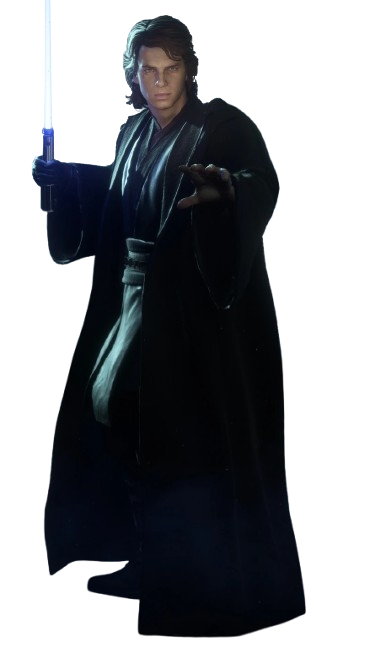
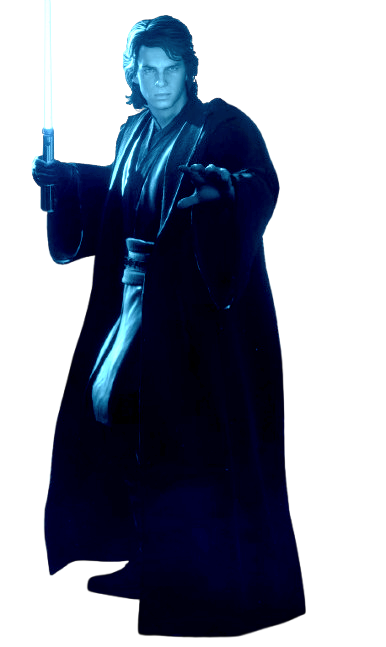
Character change button configuration

diff --git a/src/main/java/com/example/navalbattleminiproject3/controller/WelcomeController.java b/src/main/java/com/example/navalbattleminiproject3/controller/WelcomeController.java
@@ -4,8 +4,33 @@ import com.example.navalbattleminiproject3.view.GameView;
 import com.example.navalbattleminiproject3.view.WelcomeView;
 import javafx.event.ActionEvent;
 import javafx.fxml.FXML;
+import javafx.scene.control.Button;
+import javafx.scene.image.Image;
+import javafx.scene.image.ImageView;
 
 public class WelcomeController {
+    @FXML
+    private ImageView imageHologram;
+    @FXML
+    private Button buttonSelectCharacter;
+    @FXML
+    private ImageView imageCharacter;
+    @FXML
+    private Button buttonSide;
+
+    private int currentImageIndex = 0;
+    private final Image[] characterImages = {
+            new Image(getClass().getResourceAsStream("/com/example/navalbattleminiproject3/images/characters/yoda.jpg")),
+            new Image(getClass().getResourceAsStream("/com/example/navalbattleminiproject3/images/characters/anakin1.png")),
+            new Image(getClass().getResourceAsStream("/com/example/navalbattleminiproject3/images/characters/vader1.png"))
+    };
+
+    private final Image[] hologramImages = {
+            new Image(getClass().getResourceAsStream("/com/example/navalbattleminiproject3/images/characters/yoda_holografico.png")),
+            new Image(getClass().getResourceAsStream("/com/example/navalbattleminiproject3/images/characters/anakin.png")),
+            new Image(getClass().getResourceAsStream("/com/example/navalbattleminiproject3/images/characters/vader.png"))
+    };
+
 
     @FXML
     void handleClickExit(ActionEvent event) {
@@ -18,5 +43,18 @@ public class WelcomeController {
         GameView.getInstance().getGameController().startPlay();
 
     }
+    @FXML
+    void initialize() {
+        imageCharacter.setImage(characterImages[currentImageIndex]);
+        imageHologram.setImage(hologramImages[currentImageIndex]);
+    }
+
+    @FXML
+    void handleSelectCharacter(ActionEvent event) {
+        currentImageIndex = (currentImageIndex + 1) % characterImages.length;
+        imageCharacter.setImage(characterImages[currentImageIndex]);
+        imageHologram.setImage(hologramImages[currentImageIndex]);
+    }
+
 
 }

diff --git a/src/main/java/com/example/navalbattleminiproject3/view/WelcomeView.java b/src/main/java/com/example/navalbattleminiproject3/view/WelcomeView.java
@@ -47,7 +47,6 @@ public class WelcomeView extends Stage {
         loadingContainer.setAlignment(Pos.CENTER);
 
         // Crear el StackPane para el video
-        VideoView videoView = new VideoView();
         mainPane = new StackPane(loadingContainer);
 
         // Configurar la escena y ventana
